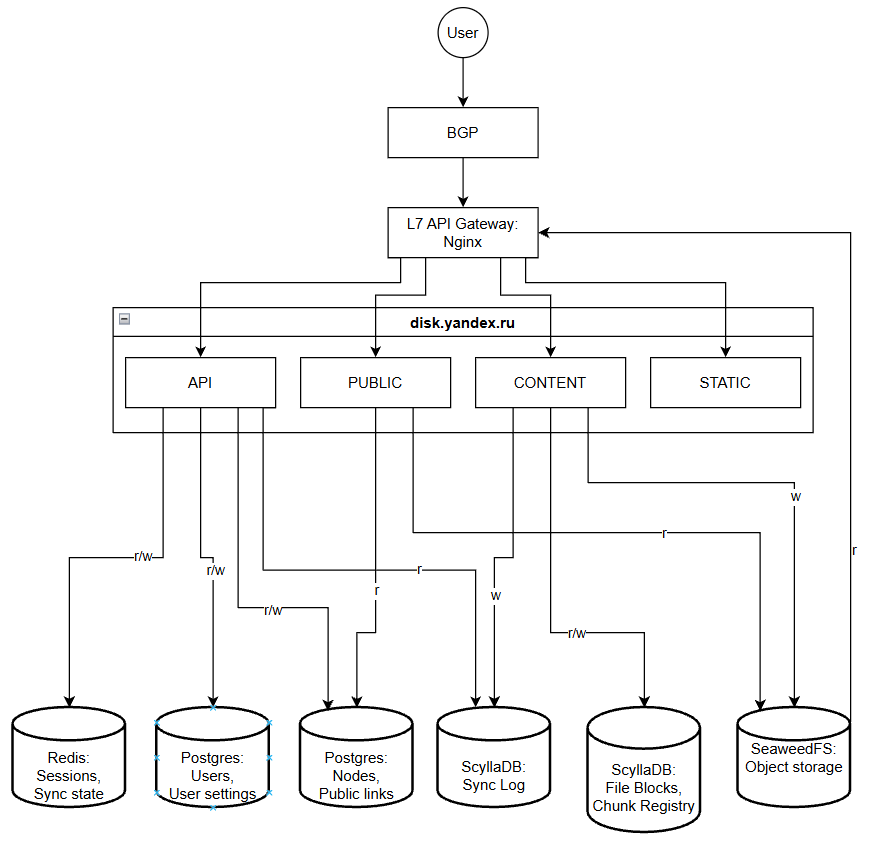
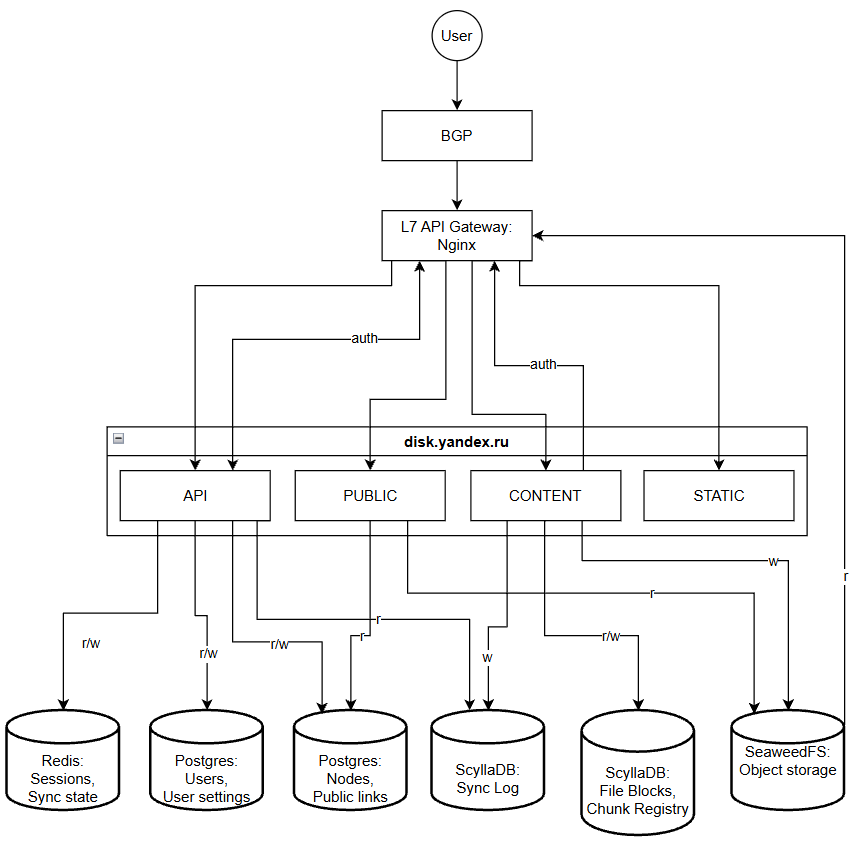
task 11

Changed region(s): [[0.0, 0.0, 0.9977, 0.9811], [0.3326, 0.5825, 0.3628, 0.6132]]

diff --git a/README.md b/README.md
@@ -264,15 +264,10 @@ flowchart TB
 ### Пояснения к схеме:
 
 1.  **L3 (BGP Edge):** Два маршрутизатора работают в паре. Использование **ECMP (Equal-Cost Multi-Pathing)** позволяет равномерно распределять входящий пакетный поток между всеми активными узлами L4-кластера.
-2.  **L4 (LVS Direct Routing):** 
-    *   Балансировщики LVS не анализируют HTTP-заголовки, они работают только с IP/Портами. 
-    *   В режиме **Direct Routing** LVS меняет только MAC-адрес получателя в кадре и пересылает его на один из Nginx-узлов. 
-    *   **Критически важно:** Узлы Nginx имеют тот же VIP на своем loopback-интерфейсе, что позволяет им принимать пакеты и отвечать клиенту **напрямую**, минуя L4-балансировщик на обратном пути. Это позволяет вашей системе выдавать 567 Гбит/с трафика, не перегружая LVS-ноды.
-3.  **L7 (Nginx):** Выполняет самую ресурсоемкую задачу — **SSL Termination** (расшифровка трафика). После расшифровки Nginx анализирует URL (например, `api.disk...` или `content.disk...`) и проксирует запрос на соответствующий бэкенд.
-4.  **Резервирование:** 
+2.  **L7 (Nginx):** Выполняет самую ресурсоемкую задачу — **SSL Termination** (расшифровка трафика). После расшифровки Nginx анализирует URL (например, `api.disk...` или `content.disk...`) и проксирует запрос на соответствующий бэкенд.  **Резервирование:** 
     *   На уровне L4 используется схема **N+1** (9 серверов: 8 активных покрывают 567 Гбит/с, 1 в горячем резерве).
     *   На уровне L7 также **N+1** (9 серверов: 8 активных покрывают пик по CPS/RPS, 1 в резерве).
-5.  **Data Path:** Тяжелые данные (файлы) хранятся в SeaweedFS. При скачивании файл проходит через Nginx (для шифрования), но «пролетает» мимо LVS на выход в интернет, что обеспечивает линейную масштабируемость системы.
+4.  **Data Path:** Тяжелые данные (файлы) хранятся в SeaweedFS. При скачивании файл проходит через Nginx (для шифрования), но «пролетает» мимо LVS на выход в интернет, что обеспечивает линейную масштабируемость системы.
 
 
 ## 5. Логическая схема БД
@@ -691,7 +686,6 @@ erDiagram
 
 | Компонент системы | Метод обеспечения надёжности |
 | :--- | :--- |
-| **Гео-резервирование** | **Резервирование ДЦ:** Распределение нагрузки между независимыми дата-центрами через GeoDNS. При отказе региона трафик переключается на ближайший доступный узел. |
 | **BGP Маршрутизаторы** | **Failover policy:** Резервирование по схеме **N + 1**. Использование протокола BGP и механизмов ECMP для мгновенного исключения отказавшего узла из маршрутизации. |
 | **Nginx (L7)** | **Сегментирование (Кластеризация API):** Разделение трафика по доменам (`api`, `content`, `public`). Проблемы или перегрузки в «тяжелом» сервисе контента не аффектят работу критически важного API синхронизации. |
 | **PostgreSQL** | **Репликация данных:** Схема Master-Replica с автоматическим failover через **Patroni**. Архивация WAL-логов для возможности восстановления данных на любой момент времени (PITR). |
@@ -717,6 +711,67 @@ erDiagram
 *   **Мониторинг (Prometheus/Grafana):** Сбор системных метрик (CPU, RAM, IOPS) и пользовательских показателей (RPS, Latency, Error Rate). Особое внимание уделяется анализу **квантилей** (P99), чтобы выявлять проблемы в хвосте длинных запросов.
 *   **Логирование (ELK Stack):** Сбор структурированных логов (`access`, `error`, `work`). Применение **Request ID** (Trace ID) для сквозной трассировки запроса через все слои: от Nginx до конкретного шарда базы данных.
 *   **Алертинг:** Настройка уведомлений на критические отклонения (рост 5xx ошибок, исчерпание квот в ДЦ, лаг репликации БД), позволяющая дежурной смене реагировать до того, как проблема станет массовой.
+
+
+# 11. Расчет ресурсов
+
+Все сервисы развёртываются в одном дата-центре (DC1, Москва) по модели собственного владения оборудованием (Colocation). Stateless-сервисы (Go-микросервисы) работают в Kubernetes; stateful-компоненты (БД, хранилище) — на выделенных физических серверах (Bare Metal) для исключения оверхеда на виртуализацию сети и дисков.
+
+## 11.1 Ресурсные требования
+
+Количество ядер CPU для микросервисов рассчитывается по формуле:
+`Количество ядер CPU = Пиковая нагрузка / Норма нагрузки на 1 ядро`
+
+### Нормы производительности
+| Характер нагрузки | Норма на 1 ядро |
+| :--- | :--- |
+| **API API** (Auth, Metadata, Polling) | 3 000 RPS |
+| **Content Service** (Hashing, kTLS, IO) | 2.5 Гбит/с |
+| **Public/Static API** | 8 000 RPS |
+
+### Сводная таблица ресурсов (Пиковая нагрузка)
+| Сервис | Нагрузка (Пик) | Расчет | CPU (ядер) | RAM |
+| :--- | :--- | :--- | :--- | :--- |
+| **api-service** | 87 898 RPS | 87 898 / 3 000 ≈ 30 → 4 × 8 | 32 | 64 ГБ |
+| **content-service** | 567,8 Гбит/с | 567.8 / 2.5 ≈ 228 → 32 × 8 | 256 | 1024 ГБ |
+| **public-service** | 10 000 RPS | 10 000 / 8 000 ≈ 2 → 2 × 4 | 8 | 16 ГБ |
+| **static-service** | 5 000 RPS | 5 000 / 8 000 ≈ 1 → 2 × 2 | 4 | 8 ГБ |
+| **Итого** | | | **300** | **1112 ГБ** |
+
+## 11.2 Конфигурации и стоимость
+
+| Тип сервера | Модель | Конфигурация | Cores | Количество | Цена (₽) | Стоимость (₽) | Аренда/мес (₽) |
+| :--- | :--- | :--- | :--- | :--- | :--- | :--- | :--- |
+| **K8s Node** | CyberServe SP1 | 2x AMD EPYC 7763 / 512GB / 2x100GbE | 128 | 5 | 2 200 000 | 11 000 000 | 250 000 |
+| **LVS L4** | CyberServe E12 | Xeon E-2414 / 32GB / 100GbE NIC | 4 | 16 | 345 000 | 5 520 000 | 120 000 |
+| **Nginx L7** | CyberServe SP1 | Xeon Silver 4514Y / 128GB / 100GbE NIC | 16 | 20 | 549 000 | 10 980 000 | 244 000 |
+| **PostgreSQL** | CyberServe SP1 | Xeon Gold 6426Y / 512GB / 4x4TB NVMe | 32 | 100 | 1 120 000 | 112 000 000 | 2 420 000 |
+| **ScyllaDB** | CyberServe SP2 | 2x Xeon Gold 6426Y / 1TB / 8x4TB NVMe | 64 | 15 | 1 850 000 | 27 750 000 | 620 000 |
+| **Redis** | CyberServe SP1 | Xeon Silver 4514Y / 256GB / 2x1TB NVMe | 16 | 12 | 680 000 | 8 160 000 | 180 000 |
+| **Storage Node**| StorageServer | AMD EPYC 7443P / 256GB / 60x20TB HDD | 24 | 800 | 2 850 000 | 2 280 000 000 | 44 000 000 |
+| **SW Master** | CyberServe E12 | Xeon E-2414 / 64GB / 2x1TB NVMe | 4 | 3 | 390 000 | 1 170 000 | 30 000 |
+| **Итого** | | | | **971** | | **2 456 580 000** | **47 864 000** |
+
+## 11.3 Аллокация в Kubernetes
+
+| Сервис | Реплики | CPU Request | RAM Request | Назначение |
+| :--- | :--- | :--- | :--- | :--- |
+| **api-service** | 4 | 8 | 16 ГБ | Метаданные, Auth, Polling |
+| **content-service** | 32 | 8 | 32 ГБ | Загрузка и выдача чанков |
+| **public-service** | 2 | 4 | 8 ГБ | Проверка публичных ссылок |
+| **static-service** | 2 | 2 | 4 ГБ | Раздача Web UI ассетов |
+
+Примечание: CPU limits установлены равными CPU requests — задержки из-за throttling недопустимы для сервиса облачного хранения. RAM limits удвоены (x2) для защиты от OOM при пиковых нагрузках на сериализацию метаданных.
+
+Для всех Go-сервисов устанавливается переменная окружения `GOMEMLIMIT` на уровне 90% от RAM limit контейнера. Это заставляет сборщик мусора (GC) Go работать более агрессивно при приближении к лимиту памяти контейнера, предотвращая принудительное завершение процесса ОС через OOM Killer.
+
+## 11.4 Обоснование масштабирования
+1. **SeaweedFS Volume:** Использование 800 серверов в конфигурации 60 HDD по 20 ТБ обеспечивает суммарную физическую емкость **960 ПБ**. Это покрывает расчетный объем данных пользователей (939 ПБ) с минимальным запасом. Для оптимизации чтения с HDD используется 256 ГБ RAM на ноду под Page Cache.
+2. **PostgreSQL:** Для хранения метаданных 46.5 млрд объектов развернуто 50 шардов (100 серверов M+R). Это гарантирует, что индексы каждого шарда (объемом ~250-300 ГБ) полностью помещаются в RAM (512 ГБ), обеспечивая мгновенный отклик при навигации по папкам.
+3. **ScyllaDB:** Кластер из 15 мощных нод (RF=3) используется для высоконагруженного Sync Log и глобального реестра чанков (дедупликация). 1 ТБ RAM на ноду позволяет эффективно кэшировать Bloom-фильтры для 31 млрд уникальных хешей.
+4. **Kubernetes:** Суммарно Go-сервисы потребляют 300 ядер. С учетом 20% накладных расходов оркестрации требуется ~360 ядер. Пять серверов AMD EPYC (640 ядер) обеспечивают достаточный запас для бесперебойной работы и фоновых процессов.
+5. **Балансировка:** 16 балансировщиков LVS работают в режиме **Direct Server Return (DSR)**, обрабатывая только входящие пакеты. Исходящий трафик (567,8 Гбит/с) уходит пользователям напрямую с узлов Content Service и Storage нод, что исключает бутылочное горлышко на сетевом уровне балансировки.
+
 
 ---
 
